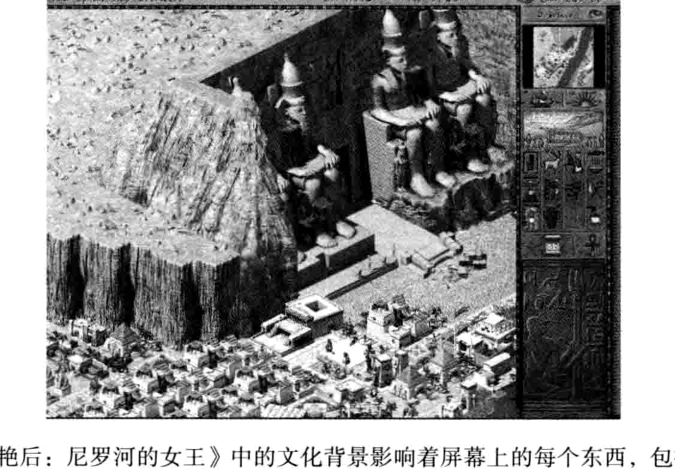
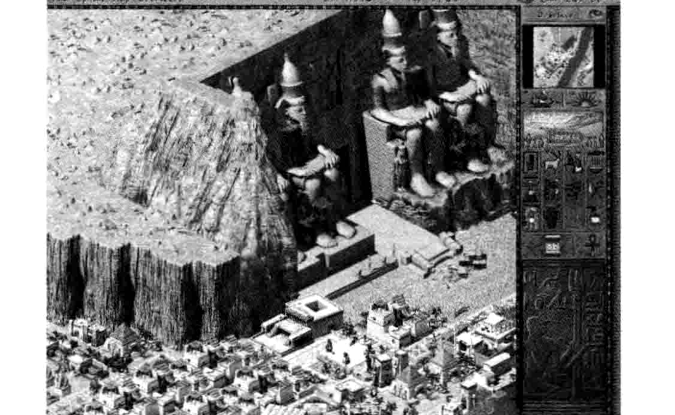
Tighten chapter 8 figure crops

diff --git a/scripts/crop_chapter08_figures.py b/scripts/crop_chapter08_figures.py
@@ -8,20 +8,20 @@ OUT.mkdir(parents=True, exist_ok=True)
 
 # Crops from 2.5x rendered scanned pages. Coordinates are (left, top, right, bottom).
 crops = [
-    ("pdf_139.png", "figure-8-1-prince-of-persia-classic-2d.png", (690, 885, 1165, 1215)),
-    ("pdf_140.png", "figure-8-2-starcraft-terrain.png", (80, 435, 525, 780)),
-    ("pdf_140.png", "figure-8-3-need-for-speed-most-wanted-3d.png", (580, 430, 1095, 790)),
-    ("pdf_140.png", "figure-8-4-legacy-of-kain-material-spectral.png", (710, 810, 1138, 1535)),
-    ("pdf_142.png", "figure-8-5-age-of-empires-scale.png", (520, 135, 1125, 630)),
-    ("pdf_143.png", "figure-8-6-spore-sphere-world.png", (240, 450, 970, 845)),
-    ("pdf_145.png", "figure-8-7-settlers-irregular-time.png", (170, 145, 940, 540)),
-    ("pdf_146.png", "figure-8-8-cleopatra-cultural-background.png", (245, 890, 920, 1365)),
-    ("pdf_147.png", "figure-8-9-grim-fandango-style.png", (610, 610, 1050, 1060)),
-    ("pdf_148.png", "figure-8-10-spec-ops-sandstorm-dubai.png", (245, 825, 865, 1235)),
-    ("pdf_149.png", "figure-8-11-naruto-visual-style.png", (245, 1185, 1110, 1545)),
-    ("pdf_151.png", "figure-8-12-medieval-fantasy-example.png", (340, 120, 965, 645)),
-    ("pdf_153.png", "figure-8-13-final-fantasy-aerith-death.png", (720, 205, 1135, 590)),
-    ("pdf_156.png", "figure-8-14-americas-army-moral-perspective.png", (320, 345, 900, 825)),
+    ("pdf_139.png", "figure-8-1-prince-of-persia-classic-2d.png", (690, 885, 1165, 1095)),
+    ("pdf_140.png", "figure-8-2-starcraft-terrain.png", (80, 435, 525, 670)),
+    ("pdf_140.png", "figure-8-3-need-for-speed-most-wanted-3d.png", (580, 430, 1095, 675)),
+    ("pdf_140.png", "figure-8-4-legacy-of-kain-material-spectral.png", (710, 805, 1138, 1325)),
+    ("pdf_142.png", "figure-8-5-age-of-empires-scale.png", (580, 185, 1125, 455)),
+    ("pdf_143.png", "figure-8-6-spore-sphere-world.png", (245, 530, 970, 805)),
+    ("pdf_145.png", "figure-8-7-settlers-irregular-time.png", (250, 230, 940, 505)),
+    ("pdf_146.png", "figure-8-8-cleopatra-cultural-background.png", (245, 890, 920, 1305)),
+    ("pdf_147.png", "figure-8-9-grim-fandango-style.png", (300, 775, 890, 1210)),
+    ("pdf_148.png", "figure-8-10-spec-ops-sandstorm-dubai.png", (245, 825, 865, 1125)),
+    ("pdf_149.png", "figure-8-11-naruto-visual-style.png", (245, 1185, 1110, 1465)),
+    ("pdf_151.png", "figure-8-12-medieval-fantasy-example.png", (340, 120, 965, 555)),
+    ("pdf_153.png", "figure-8-13-final-fantasy-aerith-death.png", (720, 205, 1135, 515)),
+    ("pdf_156.png", "figure-8-14-americas-army-moral-perspective.png", (320, 345, 900, 745)),
 ]
 
 for src_name, out_name, box in crops:
